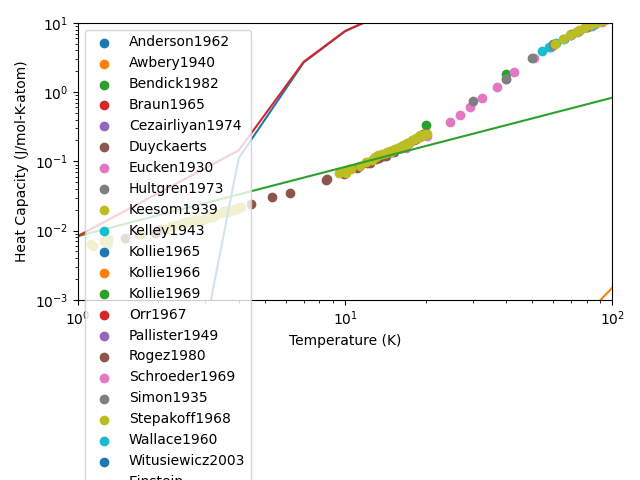
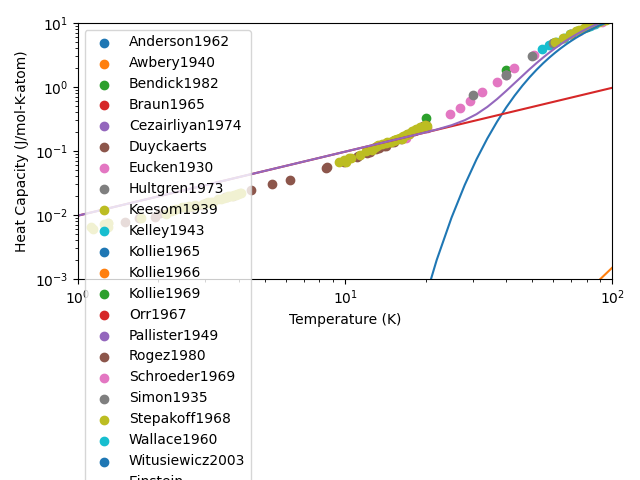
Modified symbolic code to allow for an arbitrary number of symbolic fitting functions to be used.

diff --git a/libreCalphad/databases/LC-steels_validation/FE/FE-fit-bcc.py b/libreCalphad/databases/LC-steels_validation/FE/FE-fit-bcc.py
@@ -41,12 +41,16 @@ search_results = datasets.search(query)
 R = 8.314472
 # magnetic model constants
 T_melt = 1811
-a, b, T = se.symbols("a b T")
+a, b, c, T = se.symbols("a b c T")
 model_dict = {
     "einstein": {"theta": [300, "fit"]},
     "xiong": {"beta": [2.22, "fix"], "p": [0.37, "fix"], "Tc": [1043, "fix"]},
     # "linear": {"alpha": [0.01, "fit"], "T_melt": [1811, "fix"]},
-    "symbolic": {"expression": a * T + b * T**4, "temp_bounds": (0, 1811)},
+    "symbolic_LT": {"expression": b * T, "temp_bounds": (0, 1811)},
+    # "symbolic_HT": {
+    #     "expression": a * T * se.log(T) + b * T**-5 + c * T**-11,
+    #     "temp_bounds": (1811, np.inf),
+    # },
     "melt": {
         "T_melt": [1811, "fix"],
         "liquid_Cp": [46, "fix"],
@@ -79,18 +83,22 @@ Tc_Fe = model_dict["xiong"]["Tc"][0]
 melt_a = model_dict["melt"]["a"][0]
 melt_b = model_dict["melt"]["b"][0]
 melt_c = model_dict["melt"]["c"][0]
-symbolic_values = [
-    value[0]
-    for key, value in model_dict["symbolic"].items()
-    if key not in ["expression", "temp_bounds"]
-]
-for key, value in model_dict["symbolic"].items():
-    if key == "expression":
-        # Need to do this for JSON formatting
-        value = str(value)
-    else:
-        key = str(key)
-        symbolic_values.append(value[0])
+symbolic_dict = {}
+for model_name, mdict in model_dict.items():
+    if "symbolic" in model_name:
+        symbolic_values = [
+            value[0]
+            for key, value in mdict.items()
+            if key not in ["expression", "temp_bounds"]
+        ]
+        symbolic_dict[model_name] = {"values": symbolic_values}
+# for key, value in model_dict["symbolic"].items():
+#     if key == "expression":
+#         # Need to do this for JSON formatting
+#         value = str(value)
+#     else:
+#         key = str(key)
+#         symbolic_values.append(value[0])
 
 if os.path.exists("./_fitted_params.json"):
     with open("./_fitted_params.json", "r") as f:
@@ -157,17 +165,21 @@ df_model["magnetic_model"] = _xiong_Cp(
 # )
 # df_model["linear"] = _linear_Cp(df_model["temperature"], alpha, T_melt)
 df_model["melt"] = _melt_Cp(df_model["temperature"], T_melt, melt_a, melt_b, melt_c)
-df_model["symbolic"] = _symbolic_Cp(
-    df_model["temperature"],
-    symbolic_values,
-    model_dict["symbolic"]["expression"],
-    model_dict["symbolic"]["temp_bounds"],
-)
+df_model["cumulative_model"] = 0
+for symbolic_model, sdict in symbolic_dict.items():
+    df_model[symbolic_model] = _symbolic_Cp(
+        df_model["temperature"],
+        sdict["values"],
+        model_dict[symbolic_model]["expression"],
+        model_dict[symbolic_model]["temp_bounds"],
+    )
+    df_model["cumulative_model"] = (
+        df_model["cumulative_model"] + df_model[symbolic_model]
+    )
 df_model["cumulative_model"] = (
-    df_model["einstein_model"]
+    df_model["cumulative_model"]
+    + df_model["einstein_model"]
     + df_model["magnetic_model"]
-    # + df_model["linear"]
-    + df_model["symbolic"]
     + df_model["melt"]
 )
 
@@ -183,7 +195,10 @@ ax.plot(df_model["temperature"], df_model["cumulative_model"], label="Cumulative
 ax.plot(df_model["temperature"], df_model["einstein_model"], label="Einstein")
 ax.plot(df_model["temperature"], df_model["magnetic_model"], label="Magnetic")
 ax.plot(df_model["temperature"], df_model["melt"], label="Melt")
-ax.plot(df_model["temperature"], df_model["symbolic"], label="symbolic")
+# ax.plot(df_model["temperature"], df_model["symbolic"], label="symbolic")
+for model_name in list(model_dict.keys()):
+    if "symbolic" in model_name:
+        ax.plot(df_model["temperature"], df_model[model_name], label=model_name)
 ax.legend(loc="upper left", bbox_to_anchor=(1, 1))
 
 ax.set_xlabel("Temperature (K)")
@@ -203,7 +218,11 @@ for dataset in search_results:
 ax.plot(df_model["temperature"], df_model["einstein_model"], label="Einstein")
 ax.plot(df_model["temperature"], df_model["magnetic_model"], label="Magnetic")
 # ax.plot(df_model["temperature"], df_model["linear"], label="Linear")
-ax.plot(df_model["temperature"], df_model["symbolic"], label="symbolic")
+# ax.plot(df_model["temperature"], df_model["symbolic"], label="symbolic")
+ax.plot(df_model["temperature"], df_model["melt"], label="Melt")
+for model_name in list(model_dict.keys()):
+    if "symbolic" in model_name:
+        ax.plot(df_model["temperature"], df_model[model_name], label=model_name)
 ax.plot(df_model["temperature"], df_model["cumulative_model"], label="Cumulative")
 ax.legend()
 
@@ -225,7 +244,11 @@ for dataset in search_results:
 ax.plot(df_model["temperature"], df_model["einstein_model"], label="Einstein")
 ax.plot(df_model["temperature"], df_model["magnetic_model"], label="Magnetic")
 # ax.plot(df_model["temperature"], df_model["linear"], label="Linear")
-ax.plot(df_model["temperature"], df_model["symbolic"], label="symbolic")
+# ax.plot(df_model["temperature"], df_model["symbolic"], label="symbolic")
+ax.plot(df_model["temperature"], df_model["melt"], label="Melt")
+for model_name in list(model_dict.keys()):
+    if "symbolic" in model_name:
+        ax.plot(df_model["temperature"], df_model[model_name], label=model_name)
 ax.plot(df_model["temperature"], df_model["cumulative_model"], label="Cumulative")
 ax.legend()
 

diff --git a/libreCalphad/models/heat_capacity.py b/libreCalphad/models/heat_capacity.py
@@ -411,8 +411,8 @@ def _fit_heat_capacity(x, arg_dict):
             "Need to specify a base melt heat capacity in another method."
         )
         model_Cp += _melt_Cp(temperature_array, *model_params)
-    if "symbolic" in list(models.keys()):
-        symbolic_dict = models["symbolic"]
+    for symbolic_key in [key for key in list(models.keys()) if "symbolic" in key]:
+        symbolic_dict = models[symbolic_key]
         model_params = []
         for param, param_list in symbolic_dict.items():
             if param == "expression" or param == "temp_bounds":
@@ -445,7 +445,7 @@ def fit_heat_capacity(
         "xiong",
     ]
     for model in list(models.keys()):
-        if model not in implemented_models:
+        if all([model not in implemented_models, "symbolic" not in model]):
             raise NotImplementedError(
                 f"{model} not implemented. Options are {implemented_models}"
             )
@@ -675,8 +675,8 @@ def fit_heat_capacity(
                 pass
             else:
                 raise ValueError(f"Melt model specified but not setup correctly.")
-    if "symbolic" in list(models.keys()):
-        symbolic_dict = models["symbolic"]
+    for symbolic_key in [key for key in list(models.keys()) if "symbolic" in key]:
+        symbolic_dict = models[symbolic_key]
         Cp_expr = symbolic_dict["expression"]
         if "temp_bounds" not in list(symbolic_dict.keys()):
             symbolic_dict["temp_bounds"] = (0, np.inf)
@@ -707,6 +707,7 @@ def fit_heat_capacity(
     for model, mdict in models.items():
         for param, param_list in mdict.items():
             if param == "expression":
+                mdict[param] = str(mdict[param])
                 continue
             if "fit" in param_list:
                 # update the provided parameter with the fitted parameter
